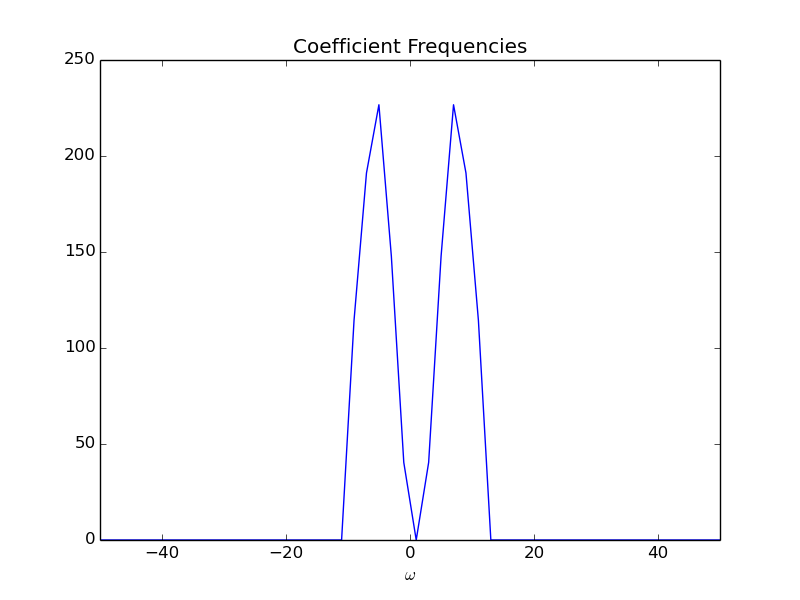
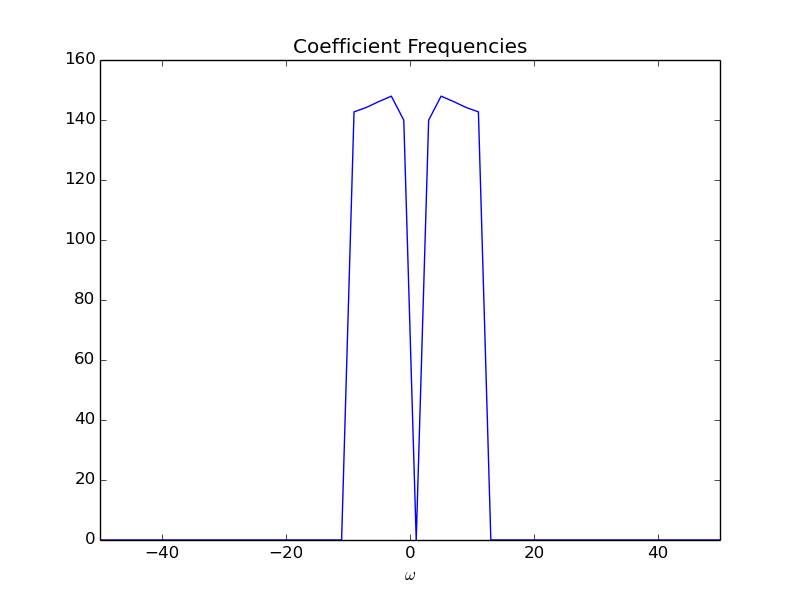
starting check

diff --git a/SYDE750_ass2/q1_2.py b/SYDE750_ass2/q1_2.py
@@ -2,6 +2,11 @@ import numpy as np
 import ipdb
 import matplotlib.pyplot as plt
 
+import sys
+from IPython.core import ultratb
+sys.excepthook = ultratb.FormattedTB(mode='Verbose',
+     color_scheme='Linux', call_pdb=1)
+
 # change the filter from a box to a gaussian
 def gps_whitenoise(T, dt, rms, bandwidth, seed):
 	# randomly generate co-efficient from a gaussian distribution equal to half the size of frequencies
@@ -14,10 +19,19 @@ def gps_whitenoise(T, dt, rms, bandwidth, seed):
 
 	# eliminate anything over the limit
 	# wait, why does this work?
-	frequencies = np.arange(0, coef.size*2, 2.0/T)
-	# so I understand that I have to multiply something here, but what the fuck is that
-	# like, do I sample a bunch of values for each frequency and then multiply it with my existing frequencies?
-	coef[frequencies > limit] = 0.0
+	frequencies = np.arange(0, coef.size*2/T, 2.0/T)
+	coef_mult = []
+	for freq in np.nditer(frequencies):
+		#ipdb.set_trace()
+		scale = np.exp(-freq**2/(2*bandwidth**2))
+		if(scale <= 0.0):
+			coef_mult.append(0.0)
+		else:
+			coef_mult.append(
+				np.random.normal(0, scale)
+			)
+	coef_mult = np.array(coef_mult)
+	coef = coef * coef_mult
 	coef[0] = 0.0
 	if(coef.size % 2 == 1):
 		print("odd")
@@ -41,3 +55,33 @@ def gps_whitenoise(T, dt, rms, bandwidth, seed):
 	curr_rms = np.sqrt(np.sum(np.square(time_domain))/T)
 	time_domain = (rms/curr_rms)*time_domain
 	return time_domain, (rms/curr_rms)*final_coef
+
+period = 1
+
+limit_list = [5, 10, 20]
+for limit in limit_list:
+	res, _ = gps_whitenoise(period, 0.001, 0.5, limit, 0)
+	fig = plt.figure()
+	plt.plot(res)
+	plt.title("Whitenoise Limited to %sHz" %limit)
+	plt.xlabel("Time (s)")
+	fig.savefig("1_2a_freq%s" %limit)
+
+res, coef = gps_whitenoise(period, 0.001, 0.5, 10, 0)
+
+average_coef = np.zeros(coef.shape)
+average_coef = average_coef + np.abs(coef)
+
+for seed in range(1, 99):
+	res, coef = gps_whitenoise(period, 0.001, 0.5, 10, seed)
+	average_coef = average_coef + np.abs(coef)
+average_coef = average_coef / 100
+avg = np.fft.fftshift(average_coef)
+
+omega = np.linspace(-1.0/0.001, 1.0/0.001, average_coef.size)
+fig = plt.figure()
+plt.plot(omega, avg)
+plt.title("Coefficient Frequencies")
+plt.xlabel("$\omega$")
+plt.xlim(-50,50)
+fig.savefig("1_2b")

diff --git a/SYDE750_ass2/optimal_filter.py b/SYDE750_ass2/optimal_filter.py
@@ -67,15 +67,16 @@ def ideal_filter(T, dt, limit=5):
 	XHAT = H*R                            # approximate the signal by convolving the response with the optimal filter
 
 	xhat = numpy.fft.ifft(numpy.fft.ifftshift(XHAT)).real  # bring the approximate signal into the time domain
-	return freq, XP, RP, H, h, r, x, xhat, t
+	return freq, XP, RP, H, h, r, x, xhat, XHAT, t
 
-freq, XP, RP, H, h, r, x, xhat, t = ideal_filter(T, dt)
+freq, XP, RP, H, h, r, x, xhat, XHAT, t = ideal_filter(T, dt)
 
 import pylab
 
 pylab.figure(1)
 pylab.subplot(1,2,1)
 pylab.plot(freq, numpy.sqrt(XP), label='Signal')  # plot the frequency spectrum of the input signal
+pylab.plot(freq, XHAT, label='Approximation')
 pylab.legend()
 pylab.xlabel('$\omega$')
 pylab.ylabel('$|X(\omega)|$')
@@ -83,8 +84,9 @@ pylab.ylabel('$|X(\omega)|$')
 pylab.subplot(1,2,2)
 pylab.plot(freq, numpy.sqrt(RP), label='Response')  # plot the frequency spectrum of the response
 pylab.legend()
-pylab.xlabel('Frequency (Hz)')
+pylab.xlabel('$\omega$')
 pylab.ylabel('$|R(\omega)|$')
+pylab.savefig("4_d")
 
 
 pylab.figure(2)
@@ -109,13 +111,14 @@ pylab.plot(t, xhat, label='approximation')                     # plot the approx
 pylab.title('Comparison of Filter Result and Real Signal')
 pylab.legend(loc='best')
 pylab.xlabel('Time (s)')
+pylab.savefig("4_c")
 
 #pylab.show()
 
 limit_list = [2, 10, 30]
 h_list = []
 for limit in limit_list:
-	freq, XP, RP, H, h, r, x, xhat, t = ideal_filter(T, dt, limit)
+	freq, XP, RP, H, h, r, x, xhat, XHAT, t = ideal_filter(T, dt, limit)
 	h_list.append(h)
 
 fig = plt.figure()
@@ -131,7 +134,7 @@ H_list = []
 h_list = []
 # TODO: resize these mofos
 for T_val in T_list:
-	freq, XP, RP, H, h, r, x, xhat, t = ideal_filter(T_val, dt)
+	freq, XP, RP, H, h, r, x, xhat, XHAT, t = ideal_filter(T_val, dt)
 	#ipdb.set_trace()
 	H_list.append(
 		H[(H.size/2-400):(H.size/2+400)]

diff --git a/SYDE750_ass2/q5.py b/SYDE750_ass2/q5.py
@@ -37,14 +37,12 @@ for val in noise:
 	res_noise.append(neurons(val))
 res_noise = np.array(res_noise)
 
-# what's the right size for these things?
 fspikes1 = np.convolve(res_noise[:,0], h, mode='same')
 fspikes2 = np.convolve(res_noise[:,1], h, mode='same')
 
 A = np.array([fspikes1, fspikes2]).T
 S = fspikes1.shape[0]
 
-#ipdb.set_trace()
 gamma = np.dot(A.T, A) / S
 upsilon = np.dot(A.T, noise) / S
 decoders = np.dot(np.linalg.pinv(gamma), upsilon)

diff --git a/SYDE750_ass2/q1_1.py b/SYDE750_ass2/q1_1.py
@@ -25,8 +25,8 @@ res, coef = whitenoise(period, 0.001, 0.5, 10, 0)
 average_coef = np.zeros(coef.shape)
 average_coef = average_coef + np.abs(coef)
 
-for _ in range(99):
-	res, coef = whitenoise(period, 0.001, 0.5, 10, 0)
+for seed in range(1, 99):
+	res, coef = whitenoise(period, 0.001, 0.5, 10, seed)
 	average_coef = average_coef + np.abs(coef)
 average_coef = average_coef / 100
 avg = np.fft.fftshift(average_coef)
